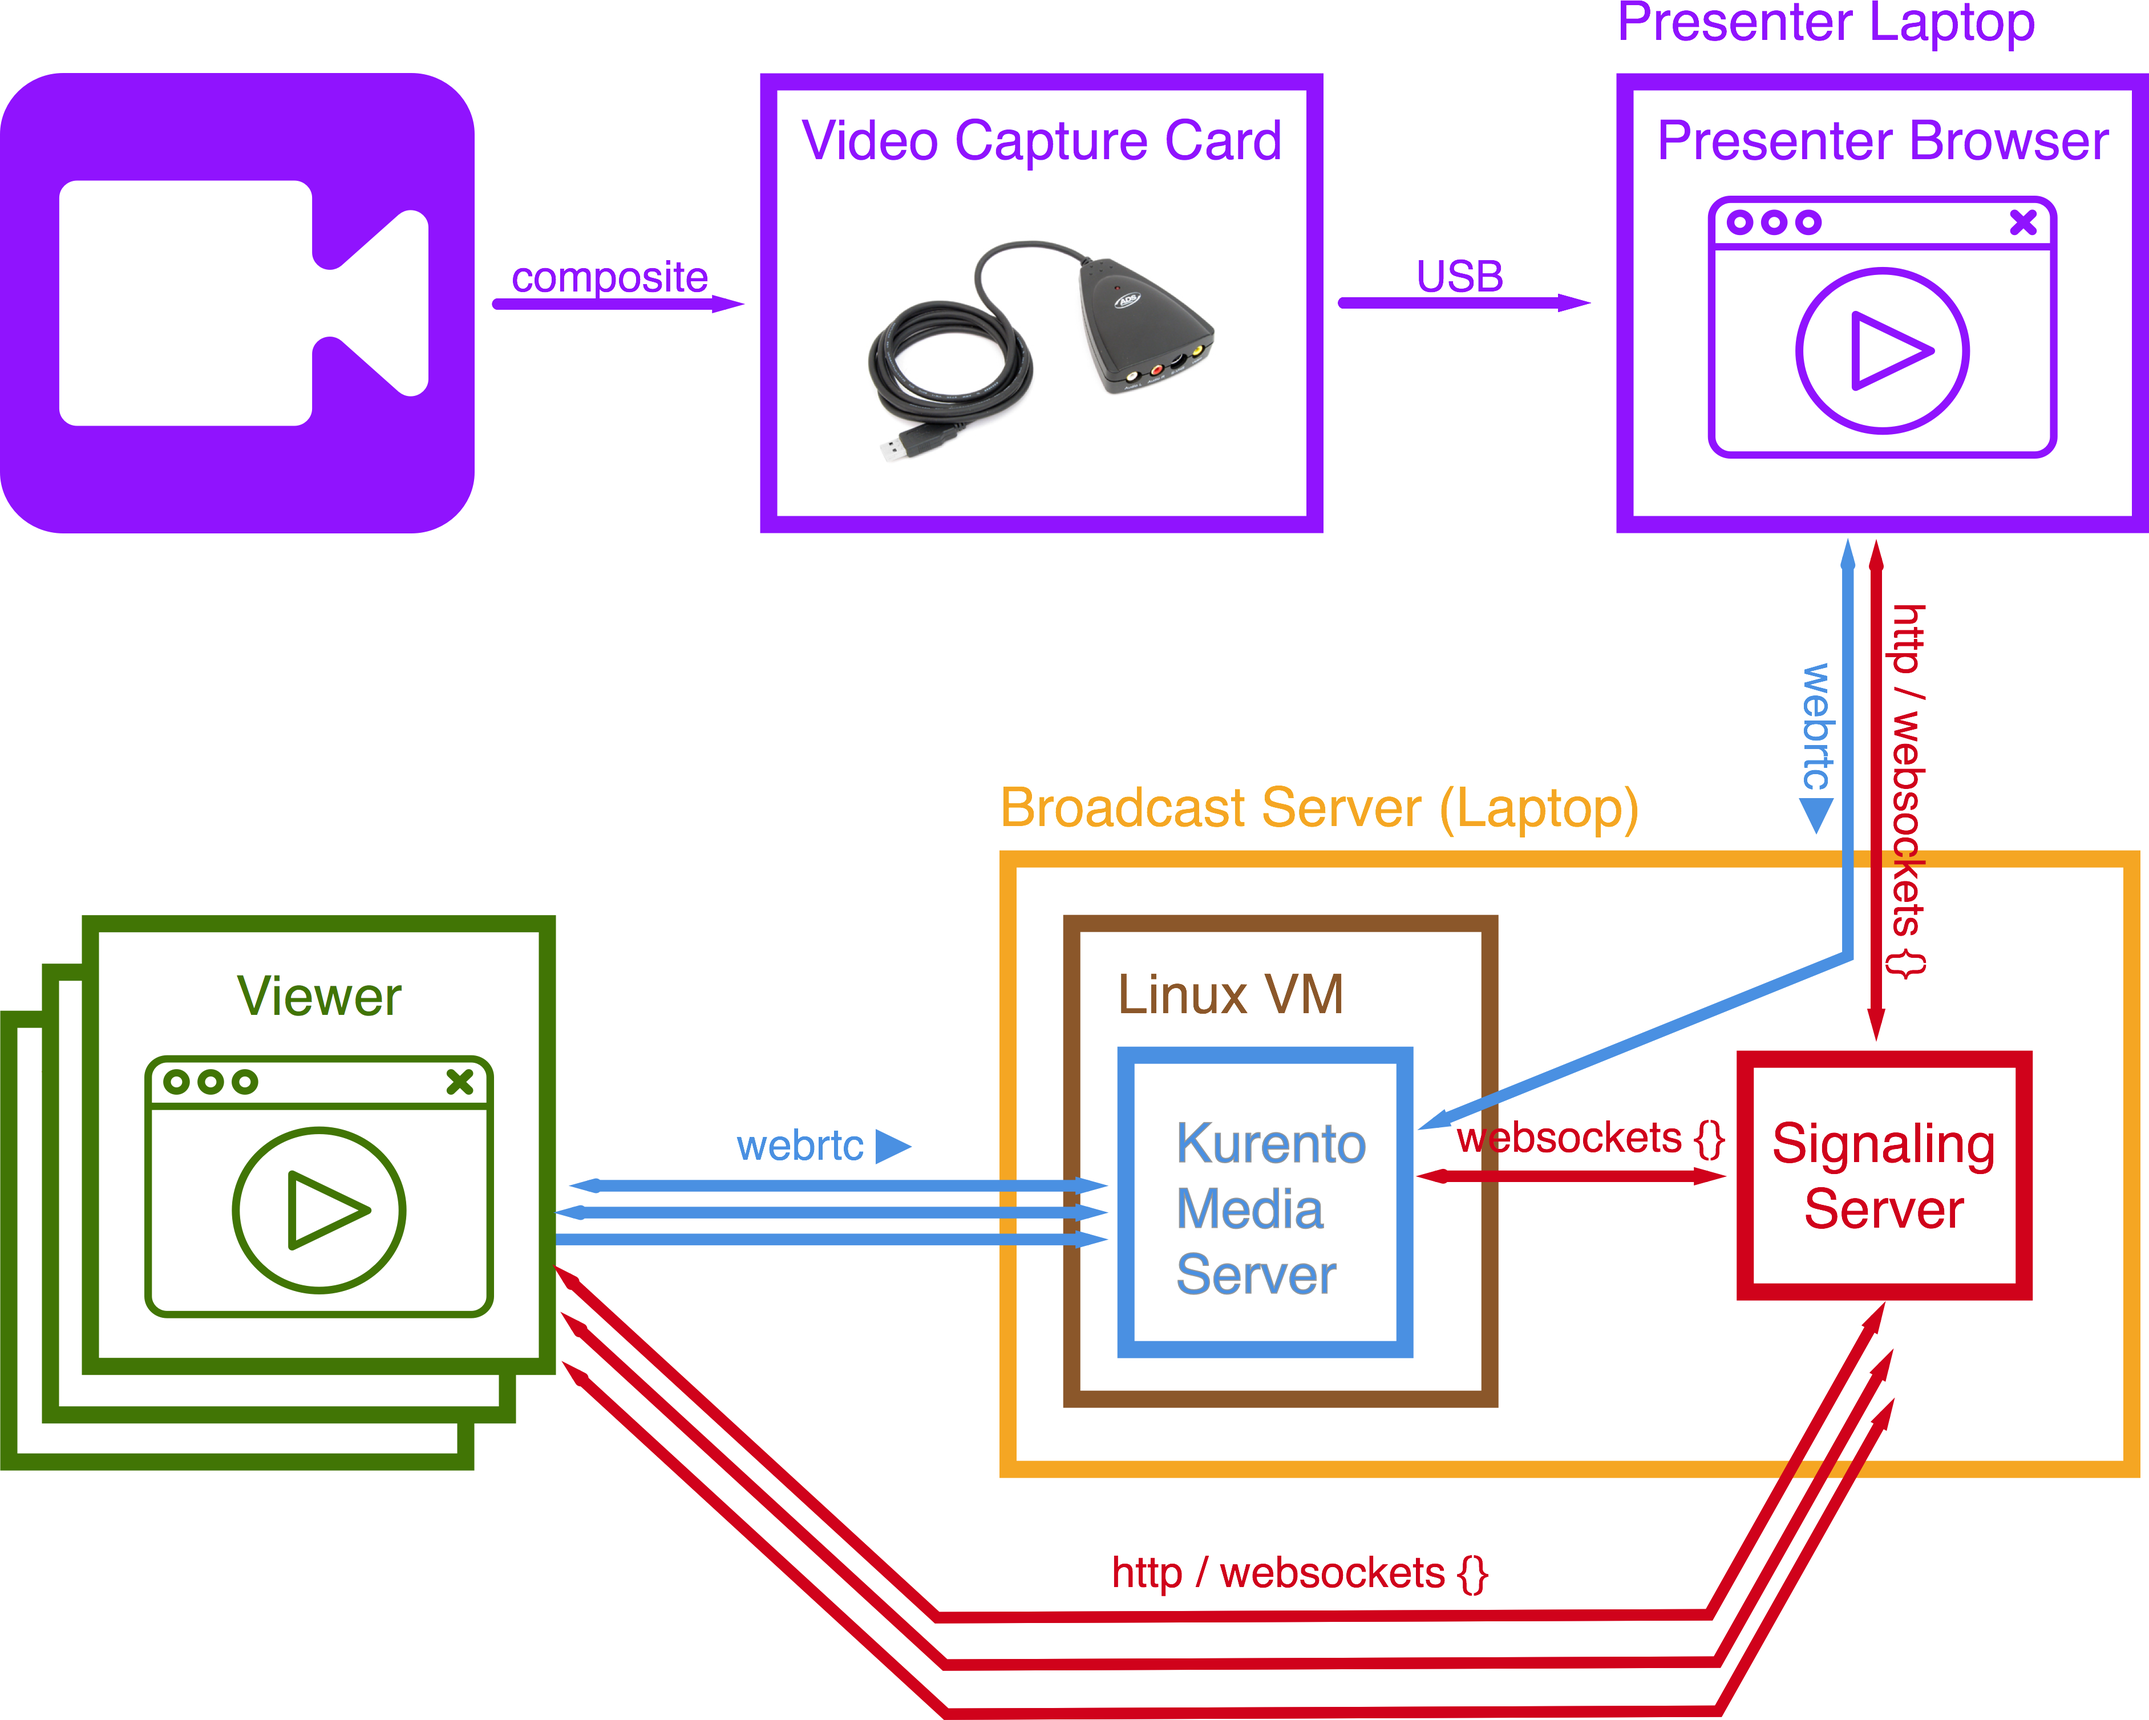
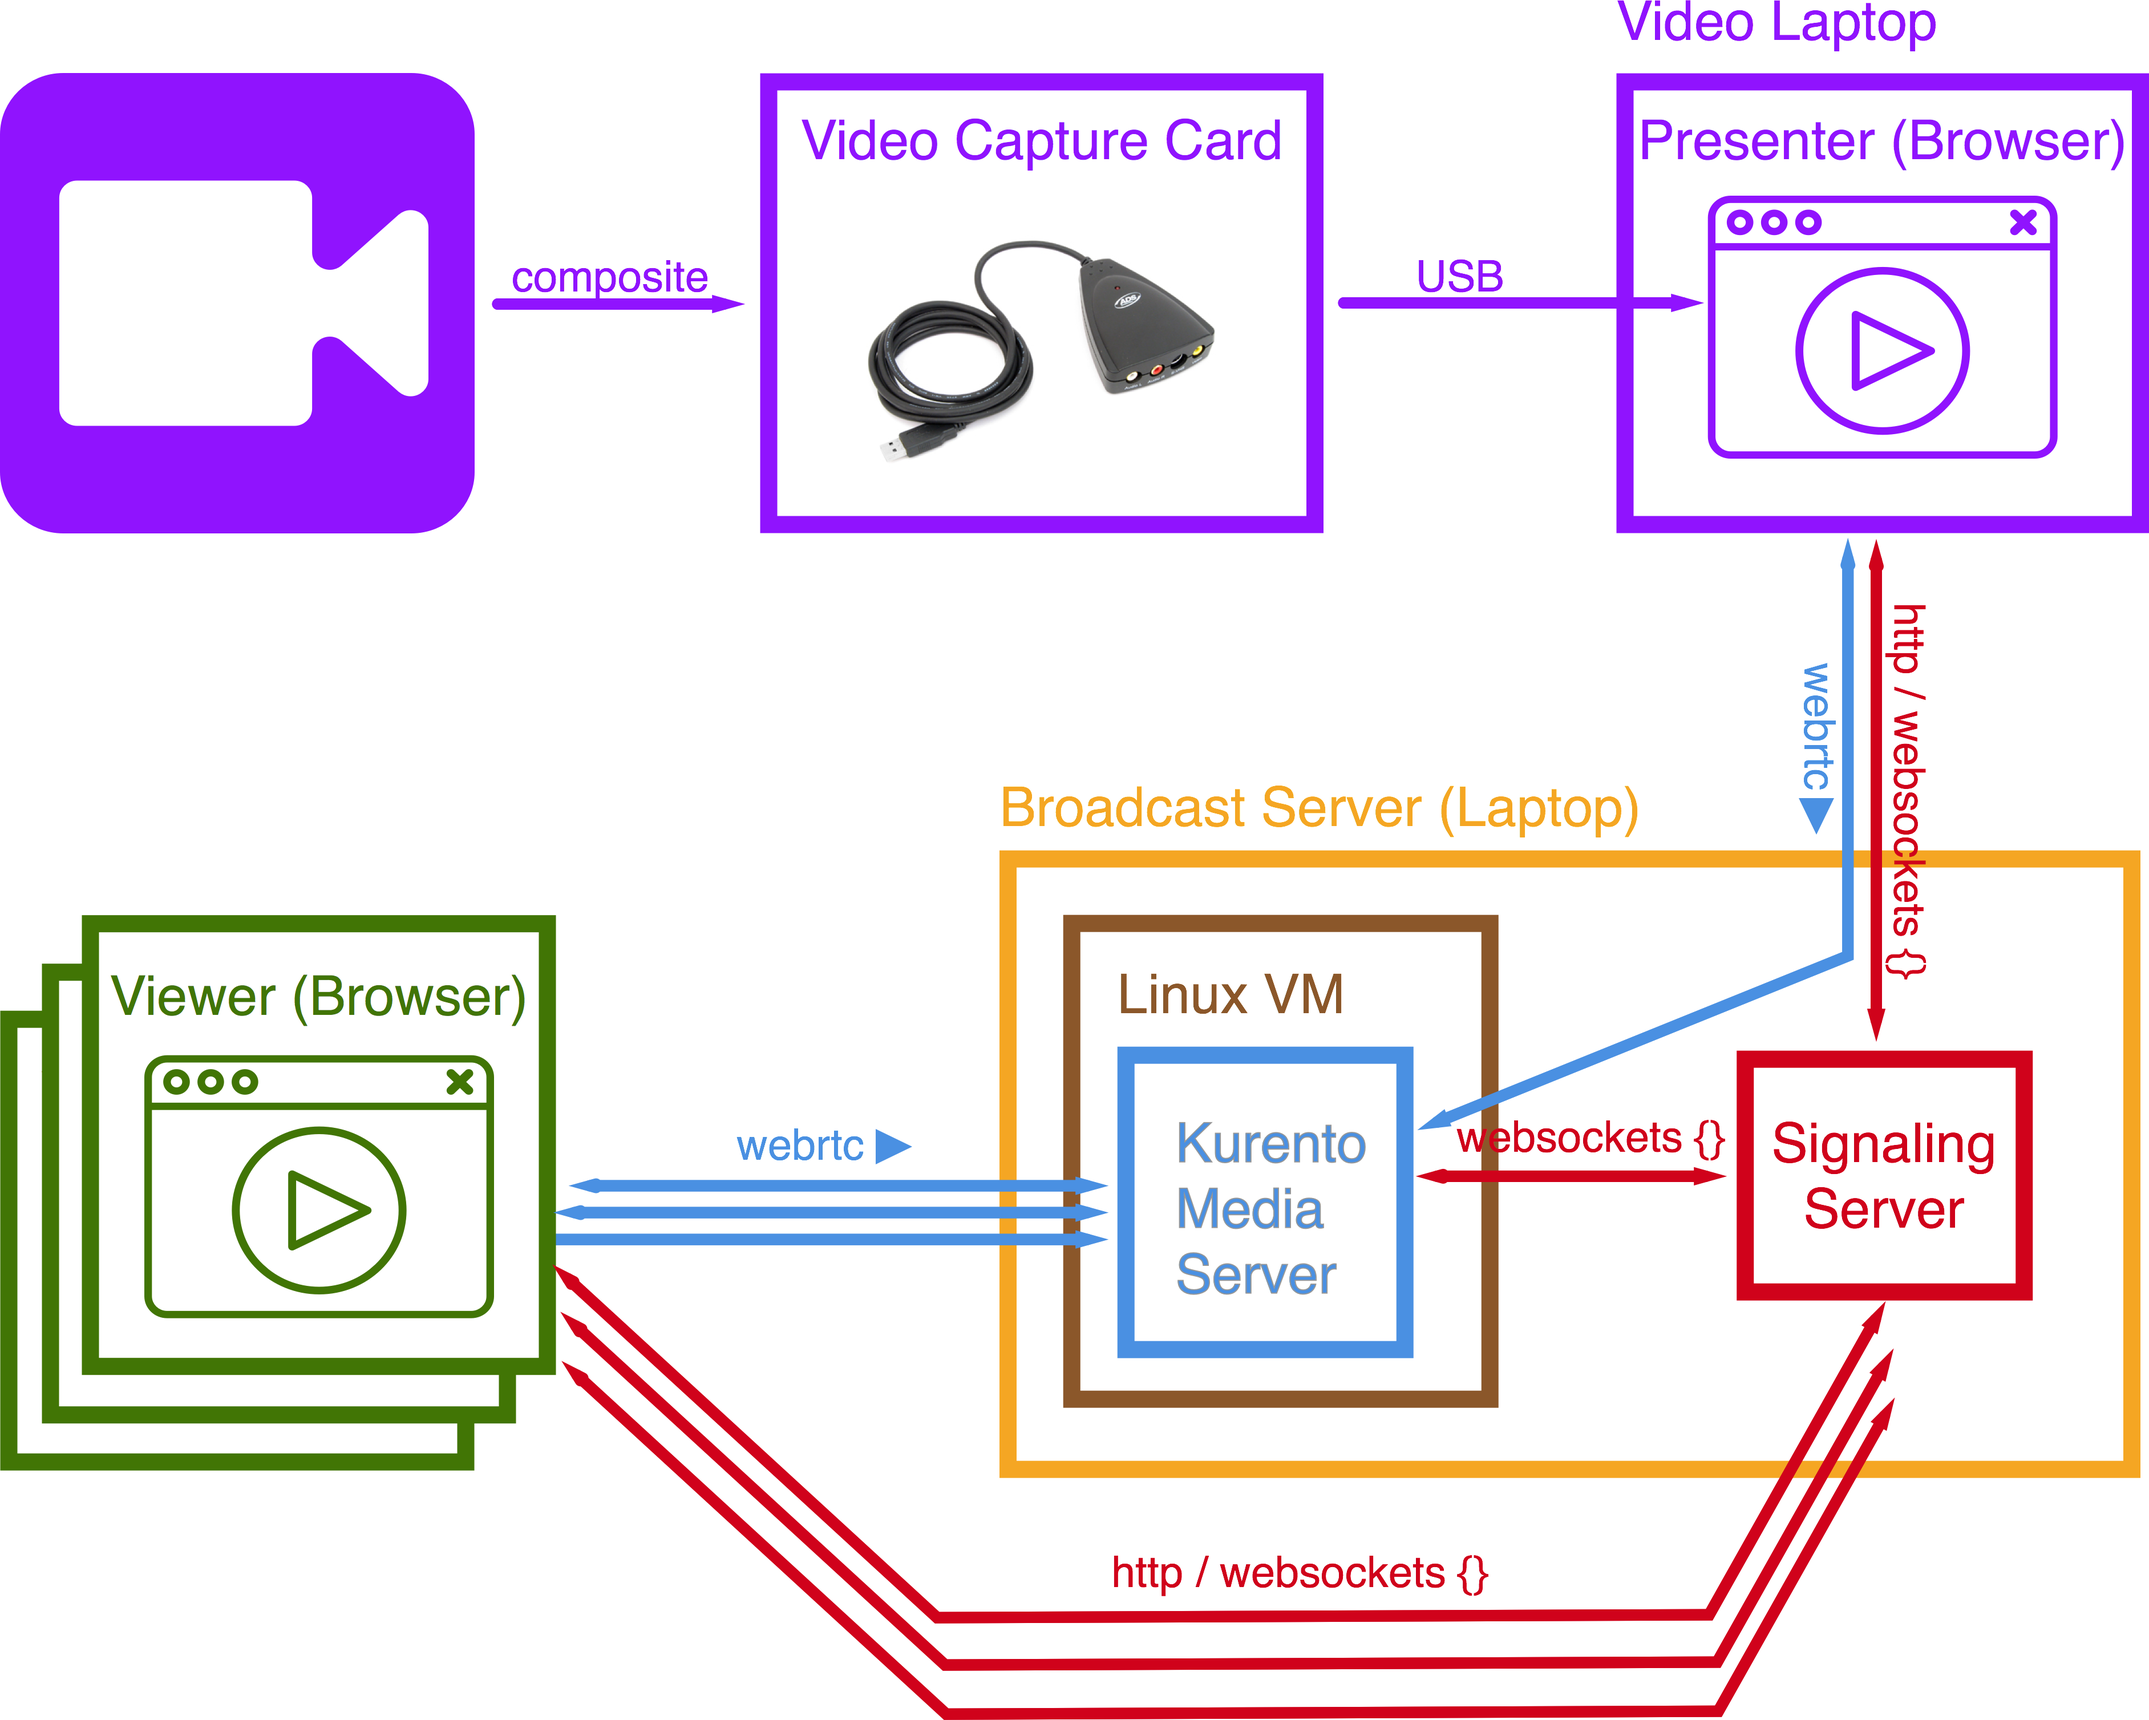
wording

diff --git a/_posts/2016-03-21-open-live-streaming-in-two-hours.md b/_posts/2016-03-21-open-live-streaming-in-two-hours.md
@@ -2,6 +2,7 @@
 layout: post
 title:  "Setting up an open source live streaming solution in two hours"
 description: Going through an extremely quick setup of a free video streaming solution
+draft: true
 image: /assets/open-streaming/view-screenshot2.jpg
 date:   2016-03-21 23:59:59 -0500
 --- 
@@ -24,7 +25,7 @@ This resulted in two hours of hectic coding, setup and equipment search.
 <small>Making this diagram took more time than building a free streaming solution<small>
 
 #### Media Server
-[Kurento][kurento] (LGPL-2.1) is an open source media server. It implements the WebRTC spec and uses [GStreamer][gstreamer] under the hood for any multimedia processing. In this case we used Kurento as a broadcasting server: it received one WebRTC AV stream from a presenter and retransmitted it via multiple WebRTC streams to viewers. 
+[Kurento][kurento] (LGPL-2.1) is an open source media server. It implements the WebRTC spec and uses [GStreamer][gstreamer] under the hood for any multimedia processing. In this case we used Kurento as a broadcasting server: it received one WebRTC AV stream from a presenter (the video capturing laptop) and retransmitted it via multiple WebRTC streams to viewers. 
 
 We ran Kurento on a Linux VM on my laptop. The intention was to test on a VM and then deploy to some cloud service. However, due to lack of time, the debug setup became the production one. 
 
@@ -51,8 +52,8 @@ Notes:
 ![Terminal](/assets/open-streaming/terminal.png)
 <small>left: ngrok with 5 open connection. right: printout from the signaling server.</small>  
 
-#### Presenter Stream
-[Tal][tal] managed to find a cheap video capture card in the lab (something [like this][video_capture]) and a laptop that would actually work with it. We used Firefox to connect to our presenter endpoint which handled the WebRTC handshake with the Media server.
+#### Video Capturing
+[Tal][tal] managed to find a cheap video capture card in the lab (something [like this][video_capture]) and a laptop that would actually work with it (ours didn't). We used Firefox to connect to our presenter endpoint which handled the WebRTC handshake with the Media server.
 
 Notes:
 
